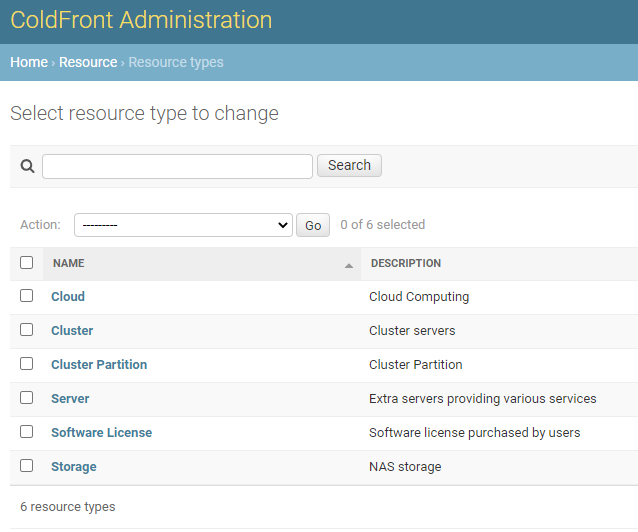
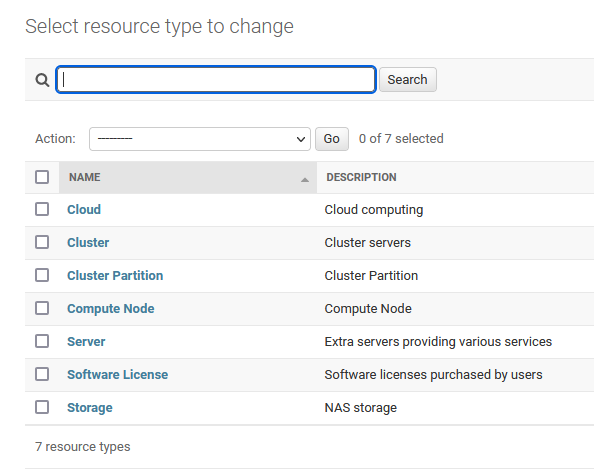
added documentation about new allocation change and resource detail page features

Changed region(s): [[0.0303, 0.2658, 0.9394, 0.9747], [0.0, 0.0, 1.0, 0.2363], [0.5455, 0.827, 0.697, 0.9156]]

diff --git a/docs/pages/manual/allocations/allocaton_statuses.md b/docs/pages/manual/allocations/allocaton_statuses.md
@@ -1,22 +1,76 @@
 # Allocation Statuses
 
-Allocations in ColdFront have many status options.  Some tie to ColdFront plugins, some trigger other actions, and others are simply placeholders used in a center's policy process.  Current status options are:
+Allocations in ColdFront have many status options.  Some tie to ColdFront plugins, some trigger other actions, and others are simply placeholders used in a center's policy process.  The current status options available in ColdFront are:
 
-- Active  
+#### Active  
 When an allocation is in 'active' status:  
-The FreeIPA plugin looks for the allocation attribute freeipa_group and ensures allocation users are members.  
-The Slurm plugin looks for slurm attributes such as slurm_account, slurm_specs, and slurm_user_specs and 
+- The FreeIPA plugin syncs the allocation attribute freeipa_group for all allocation users, adding users to the group if they are not already members  
+- The Slurm plugin syncs Slurm attributes with the Slurm database for all allocations users  
+- It's important to point out that unless these plugins are run to properly sync the systems, or the center is using some other mechanism for granting access to a resource, the allocation users' access will not yet be active on the systems, despite this allocation status being 'active'  
+- Emails are sent to all allocation users letting them know the request has been activated  
 
-- Approved  
-- Denied  
-- Expired  
-- Inactive (Renewed)  
-- New  
-- Paid  
-- Payment Declined  
-- Payment Pending  
-- Payment Requested  
-- Pending  
-- Renewal Requested  
-- Revoked  
-- Unpaid  
+#### Approved  
+- This status currently provides no automation for any plugins.  It can be used as part of a center's business process.  For example, your center may have a committee that reviews allocation requests prior to the system administrators activating them.  This status could be used by the allocation request reviewers to mark it for the admins to activate.  
+- When in this status, the allocation users would not have access to the resource yet.  
+
+#### Denied  
+- This status currently provides no automation for any plugins.  It can be used as part of a center's business process.  This status could be used by a committee reviewing allocation requests or by system administrators who desire to deny the request for whatever reason.  
+- A reason for denying the allocation request should be provided so allocation users can view this information  
+- When in this status, the allocation users would not have access to the resource.  
+- Emails are sent to all allocation users letting them know the request has been denied  
+
+#### Expired  
+When an allocation is in 'expired' status:  
+- The FreeIPA plugin syncs the allocation attribute freeipa_group for all allocation users, removing users from the group unless they're on another active allocation with the same group membership  
+- The Slurm plugin (slurm_check) syncs Slurm attributes with the Slurm database for all allocations users, removing Slurm associations and accounts if necessary
+- It's important to point out that unless these plugins are run to properly remove access, or the center is using some other mechanism for granting access to a resource, the allocation users' access will still be active on the systems, despite this allocation status being 'expired'  
+- Emails are sent to all allocation users letting them know the allocation has expired   
+
+
+#### Inactive (Renewed)  
+- When an allocation is renewed, a new allocation is created and the original allocation is set to this status  
+- Changes can not be made to this allocation  
+- It remains for historical purposes  
+
+
+#### New  
+- This is the status an allocation is placed in when first created   
+- An email gets sent to 'EMAIL_TICKET_SYSTEM_ADDRESS' configured in coldfront.env  
+- Emails are sent to all allocation users letting them know the request has been submitted  
+- Allocation is listed in 'Allocation Requests' list for administrators to process  
+- When in this status, the allocation users would not have access to the resource yet   
+
+#### Paid  
+- This status currently provides no automation for any plugins.  It can be used as part of a center's business process.
+- The allocation will display for staff on the 'Invoice' list  
+
+#### Payment Declined  
+- This status currently provides no automation for any plugins.  It can be used as part of a center's business process.
+- The allocation will display for staff on the 'Invoice' list  
+
+#### Payment Pending  
+- This status currently provides no automation for any plugins.  It can be used as part of a center's business process.  
+- The allocation will display for staff on the 'Invoice' list  
+
+#### Payment Requested  
+- This status currently provides no automation for any plugins.  It can be used as part of a center's business process.  
+- The allocation will display for staff on the 'Invoice' list  
+
+#### Pending  
+ - This status currently provides no automation for any plugins.  It can be used as part of a center's business process.  
+
+#### Renewal Requested  
+- This is the state an active allocation gets put in when the PI/manager requests to renew it  
+- The allocation will appear on the "Allocation Requests" page for administrators to process  
+- If the allocation renewal isn't processed prior to the original allocation expiration date, the allocation will expire and the allocation users will get a notification email  
+- An email gets sent to 'EMAIL_TICKET_SYSTEM_ADDRESS' configured in coldfront.env  
+- Emails are sent to all allocation users letting them know the renewal request has been submitted  
+
+#### Revoked  
+- The FreeIPA plugin syncs the allocation attribute freeipa_group for all allocation users, removing users from the group unless they're on another active allocation with the same group membership  
+- The Slurm plugin (slurm_check) syncs Slurm attributes with the Slurm database for all allocations users, removing Slurm associations and accounts if necessary
+- It's important to point out that unless these plugins are run to properly remove access, or the center is using some other mechanism for granting access to a resource, the allocation users' access will still be active on the systems, despite this allocation status being 'revoked'  
+- Emails are sent to all allocation users letting them know the allocation has been revoked and their access to the resource has been removed    
+
+#### Unpaid  
+- This status currently provides no automation for any plugins.  It can be used as part of a center's business process.

diff --git a/docs/pages/manual/resources/resources.md b/docs/pages/manual/resources/resources.md
@@ -1,6 +1,6 @@
 # What are Resources?
 
-The list of resources in ColdFront is everything that your center maintains and provides access to your user community.  These can be shared resources such as clusters and storage or they can be individual servers that only a single user or small group has access to.  A base install of ColdFront comes with the following types of resources:  Cluster, Cluster Partition, Server, Storage, Cloud, Software.  Additional resource types can be added and might include Database (for shared databases that a center restricts access to) or Instrument (for shared scientific instruments you need to manage access for).  Resources are managed in the ColdFront Administration Dashboard under Resources.
+The list of resources in ColdFront is everything that your center maintains and provides access for to your user community.  These can be shared resources such as clusters and storage or they can be individual servers that only a single user or small group has access to.  A base installation of ColdFront comes with the following types of resources:  Cloud, Cluster, Cluster Partition, Compute Node, Server, Software License, and Storage.  Additional resource types can be added and might include Database (for shared databases that a center restricts access to) or Instrument (for shared scientific instruments you need to manage access for).  Resources are managed in the ColdFront Administration dashboard under Resource Types.
 
 ### Adding a new resource type
 
@@ -50,3 +50,7 @@ Click the 'Add Attribute Type' to create a new one.  Enter a name and select the
 To add a new attribute type, click the green plus sign next to "attribute type" or go to Resource - Attribute types to add a new option.
 
 ![Resource Attribute Types](../../images/resourceattributetype.PNG)  
+
+###  Resource Detail Pages
+
+See more about [resource detail pages](resource_detail.md)

diff --git a/docs/pages/manual/allocations/allocations.md b/docs/pages/manual/allocations/allocations.md
@@ -47,10 +47,14 @@ ColdFront has a set of allocation attributes that tie into plugins.  You can add
 
 ![Allocation Attributes](../../images/allocationattributes.PNG)  
 
-![Allocation Attribute Types](../../images/attributetypes.PNG)  
+![Allocation Attribute Types](../../images/attributetypes.PNG)    
 
 Click the 'Add Allocation Attribute Type' to create a new one.  Enter a name and select the type of attribute from: Date, Float, Int, Text, Yes/No
 
 All attributes on an allocation are displayed on the Allocation Detail page.  If you do not want the PI and allocation users to see a particular attribute, check the "Is private" checkbox.  System administrators will be able to view these attributes on the allocation detail page but they'll be marked with a lock icon.  Any others viewing the allocation will not see them at all.
 
-![Private Allocation Attributes](../../images/privateattributes.PNG)  
+![Private Allocation Attributes](../../images/privateattributes.PNG)
+
+### Allow allocation attribute changes  
+
+In order for a PI/manager to request a change to an allocation attribute, such as storage quantity, the allocation attribute must be set to allow changes.  [See more here](change_requests.md)
